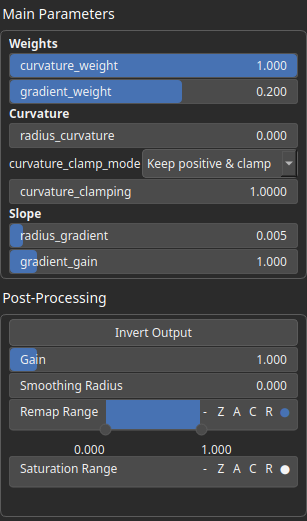
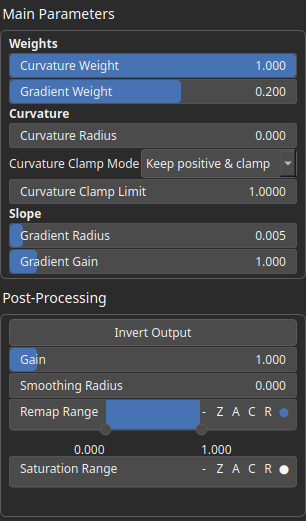
Update doc

diff --git a/Hesiod/src/model/nodes/nodes_function/select_soil_weathered.cpp b/Hesiod/src/model/nodes/nodes_function/select_soil_weathered.cpp
@@ -26,17 +26,17 @@ void setup_select_soil_weathered_node(BaseNode &node)
   node.add_port<hmap::Heightmap>(gnode::PortType::OUT, "output", CONFIG(node));
 
   // attribute(s)
-  node.add_attr<FloatAttribute>("radius_curvature", "radius_curvature", 0.f, 0.f, 0.1f);
-  node.add_attr<FloatAttribute>("radius_gradient", "radius_gradient", 0.005f, 0.f, 0.1f);
-  node.add_attr<FloatAttribute>("gradient_gain", "gradient_gain", 1.f, 0.01f, 10.f);
-  node.add_attr<FloatAttribute>("curvature_weight", "curvature_weight", 1.f, -1.f, 1.f);
-  node.add_attr<FloatAttribute>("gradient_weight", "gradient_weight", 0.2f, -1.f, 1.f);
+  node.add_attr<FloatAttribute>("radius_curvature", "Curvature Radius", 0.f, 0.f, 0.1f);
+  node.add_attr<FloatAttribute>("radius_gradient", "Gradient Radius", 0.005f, 0.f, 0.1f);
+  node.add_attr<FloatAttribute>("gradient_gain", "Gradient Gain", 1.f, 0.01f, 10.f);
+  node.add_attr<FloatAttribute>("curvature_weight", "Curvature Weight", 1.f, -1.f, 1.f);
+  node.add_attr<FloatAttribute>("gradient_weight", "Gradient Weight", 0.2f, -1.f, 1.f);
   node.add_attr<EnumAttribute>("curvature_clamp_mode",
-                               "curvature_clamp_mode",
+                               "Curvature Clamp Mode",
                                enum_mappings.clamping_mode_map,
                                "Keep positive & clamp");
   node.add_attr<FloatAttribute>("curvature_clamping",
-                                "curvature_clamping",
+                                "Curvature Clamp Limit",
                                 1.f,
                                 0.f,
                                 FLT_MAX,

diff --git a/docs/node_reference/nodes/SelectSoilWeathered.md b/docs/node_reference/nodes/SelectSoilWeathered.md
@@ -3,7 +3,7 @@ SelectSoilWeathered Node
 ========================
 
 
-No description available
+Generates a soil-weathering selection mask by combining curvature and gradient analysis from the input heightmap. This node can be for instance chained with ColorizeGradient for texturing.
 
 
 
@@ -18,30 +18,30 @@ Mask/ForTexturing
 
 |Name|Type|Description|
 | :--- | :--- | :--- |
-|input|Heightmap|No description|
+|input|Heightmap|Input heightmap used to compute curvature and gradient contributions.|
 
 # Outputs
 
 |Name|Type|Description|
 | :--- | :--- | :--- |
-|output|Heightmap|No description|
+|output|Heightmap|Output soil-weathered mask combining curvature and gradient effects.|
 
 # Parameters
 
 |Name|Type|Description|
 | :--- | :--- | :--- |
-|curvature_clamp_mode|Enumeration|No description|
-|curvature_clamping|Float|No description|
-|curvature_weight|Float|No description|
-|gradient_gain|Float|No description|
-|gradient_weight|Float|No description|
+|Curvature Clamp Mode|Enumeration|Clamping mode applied to curvature values before mixing. Determines how positive and negative curvature values are limited. Positive curvature corresponds to convex terrain features such as bumps or ridges, while negative curvature corresponds to concave forms such as rifts, valleys, or depressions. Use the clamping mode to keep or suppress one of these curvature types depending on the effect you want to emphasize.|
+|Curvature Clamp Limit|Float|Maximum absolute curvature value allowed after clamping. Smaller values will saturate the curvature contrast.|
+|Curvature Weight|Float|Weight applied to the curvature component in the final weathering mix. Can be negative to invert curvature contribution.|
+|Gradient Gain|Float|Controls how sensitive the gradient contribution is to slope intensity. A higher gain produces a steeper, more contrast-like transition from 0 to 1, making the influence of slope change more abruptly.|
+|Gradient Weight|Float|Weight applied to the gradient component in the final weathering mix. Can be negative to invert the gradient contribution. Increasing the gradient weight will result in stronger selection based solely on elevation slope, independently of curvature, i.e. bumps, or ridge detection.|
 |Gain|Float|Set the gain. Gain is a power law transformation altering the distribution of signal values, compressing or expanding certain regions of the signal depending on the exponent of the power law.|
 |Invert Output|Bool|Inverts the output values after processing, flipping low and high values across the midrange.|
 |Remap Range|Value range|Linearly remaps the output values to a specified target range (default is [0, 1]).|
 |Saturation Range|Value range|Modifies the amplitude of elevations by first clamping them to a given interval and then scaling them so that the restricted interval matches the original input range. This enhances contrast in elevation variations while maintaining overall structure.|
 |Smoothing Radius|Float|Defines the radius for post-processing smoothing, determining the size of the neighborhood used to average local values and reduce high-frequency detail. A radius of 0 disables smoothing.|
-|radius_curvature|Float|No description|
-|radius_gradient|Float|No description|
+|Curvature Radius|Float|Radius used for curvature computation. Larger radii capture broader-scale curvature.|
+|Gradient Radius|Float|Radius used to compute local gradient magnitudes, defining the neighborhood size influencing slope estimation. Larger radii yield smooth gradients.|
 
 # Example
 
